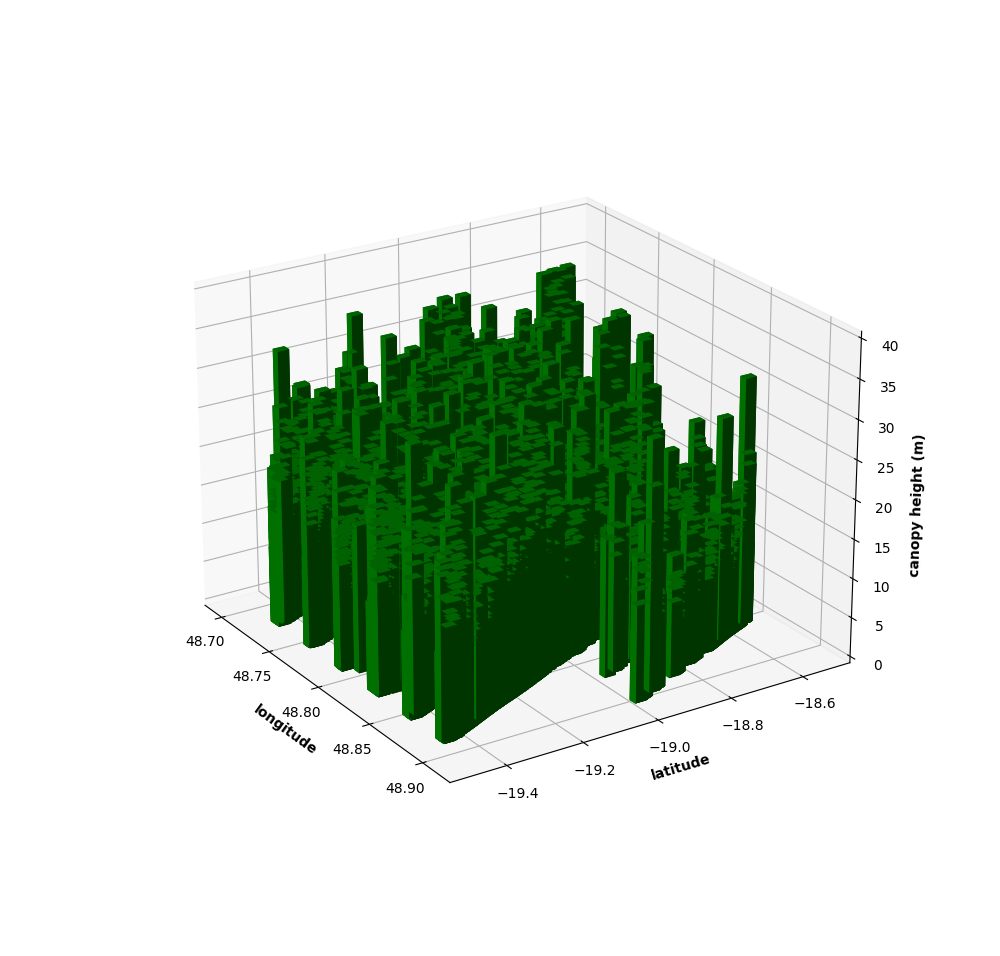
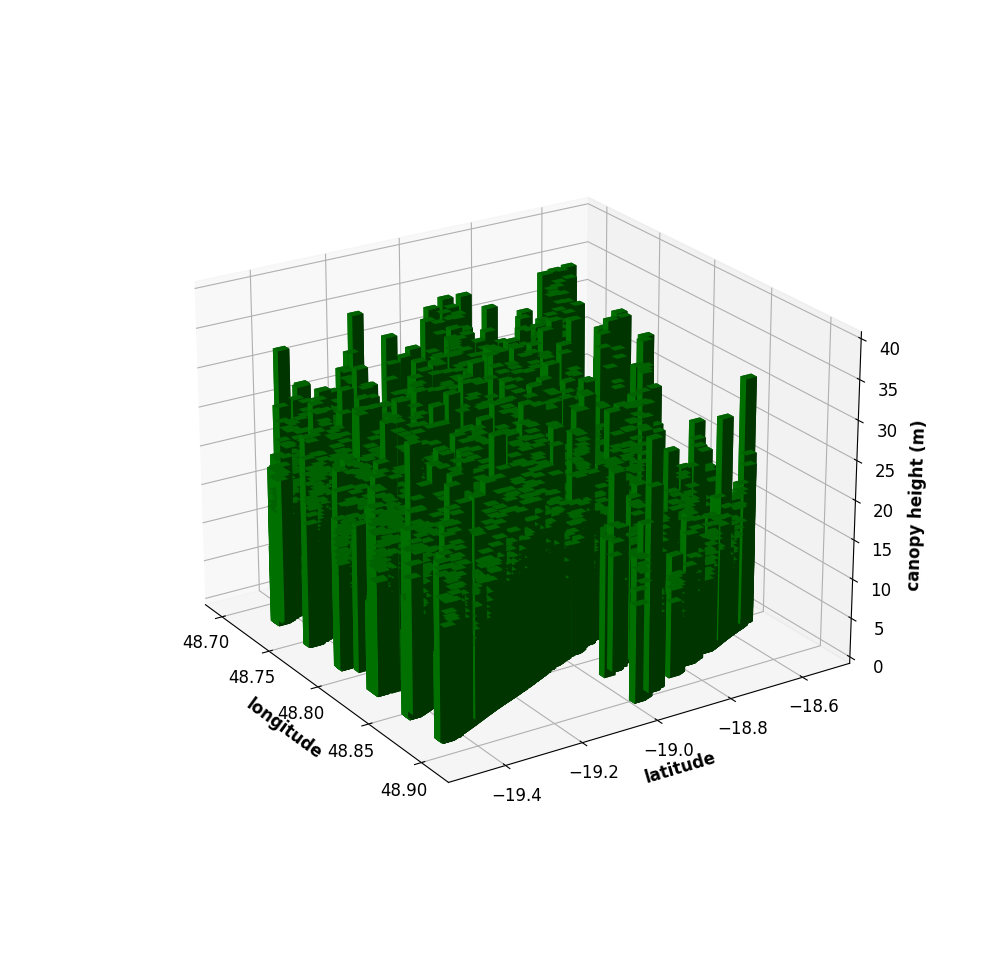
Update figure size

diff --git a/icesat2_veg_height.py b/icesat2_veg_height.py
@@ -10,6 +10,7 @@ import numpy as np
 from mpl_toolkits.mplot3d import axes3d
 import matplotlib.pyplot as plt
 from scipy.stats import gaussian_kde
+plt.rcParams.update({'font.size': 12})
 
 # Concat ICESat csv files from data folder into one dataframe
 path = r'./data'                     
@@ -64,7 +65,7 @@ z = gaussian_kde(xy)(xy)
 idx = z.argsort()
 x, y, z = x[idx], y[idx], z[idx]
 
-fig, ax = plt.subplots(figsize = (10, 5))
+fig, ax = plt.subplots(figsize = (10, 10))
 density = ax.scatter(x, y, c=z, s=50)
 fig.colorbar(density, label='Density of points')
 ax.set_xlabel('latitude')
